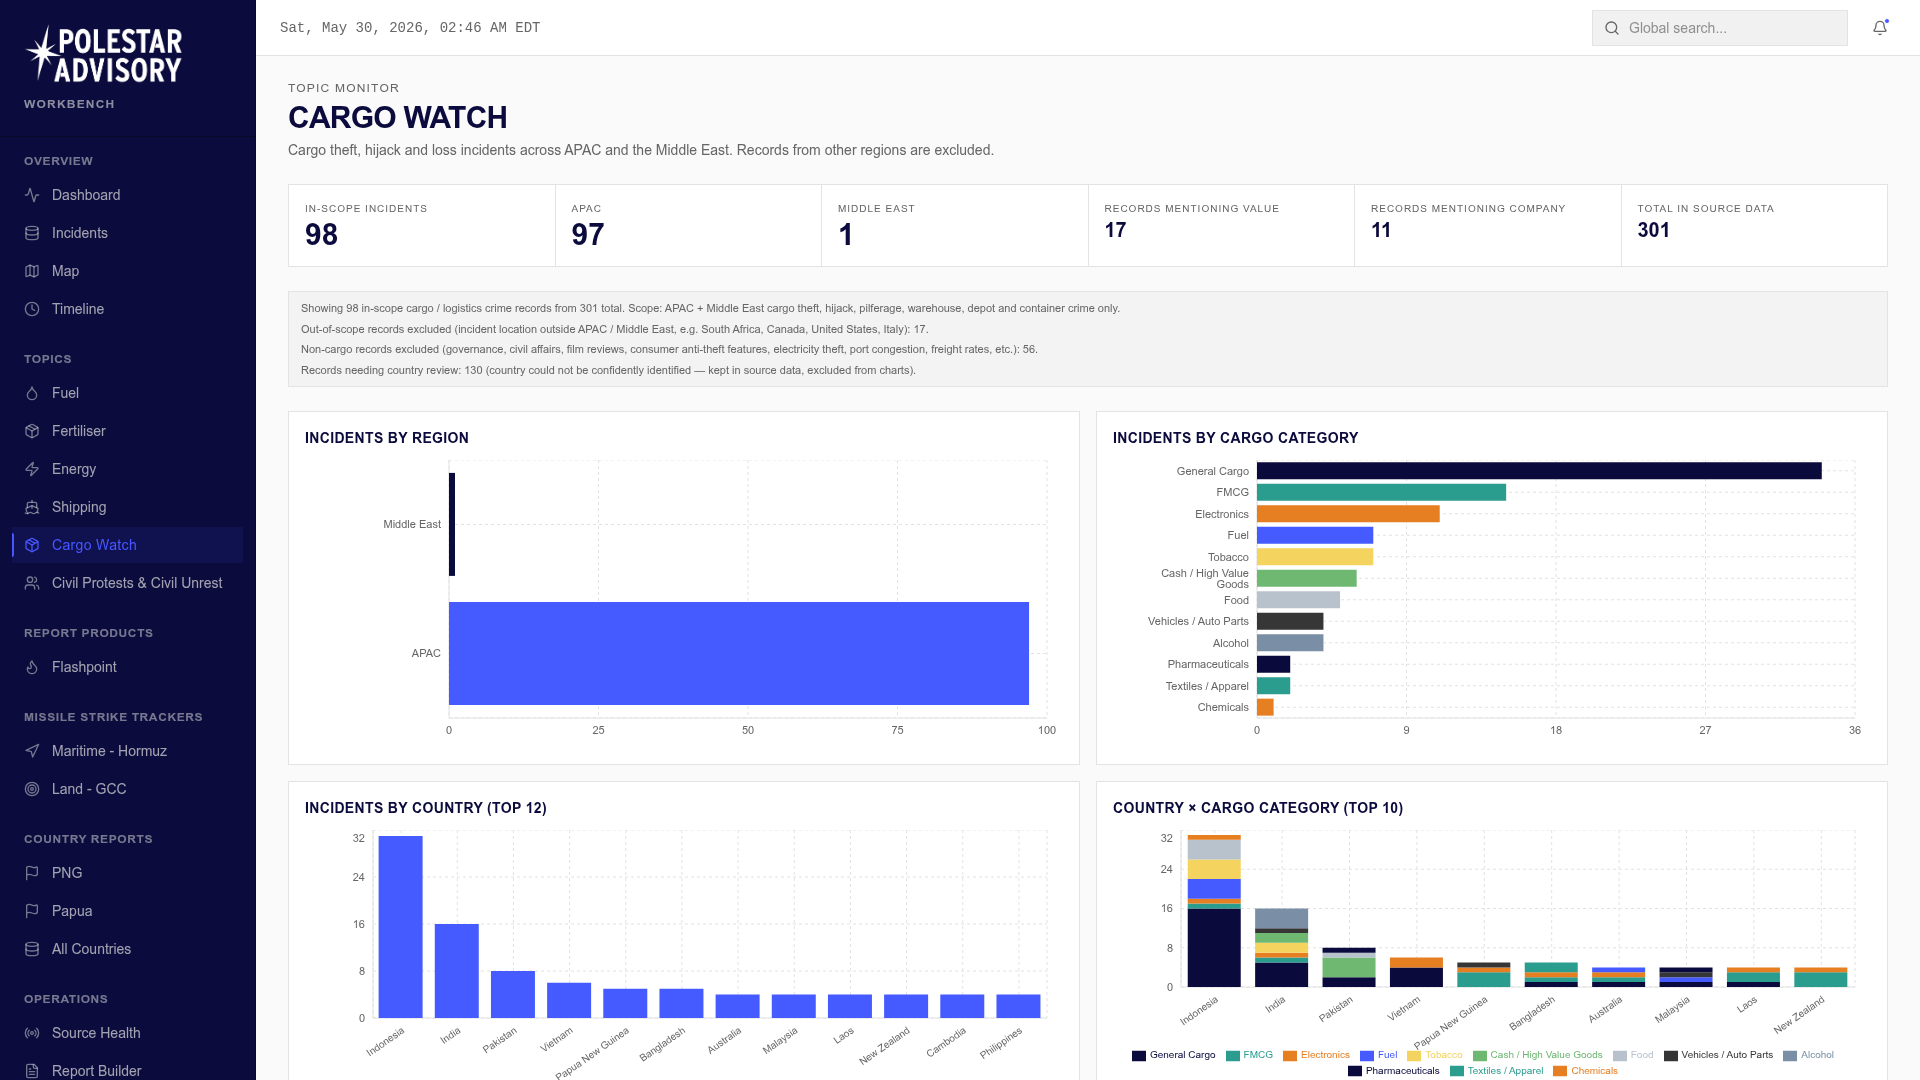
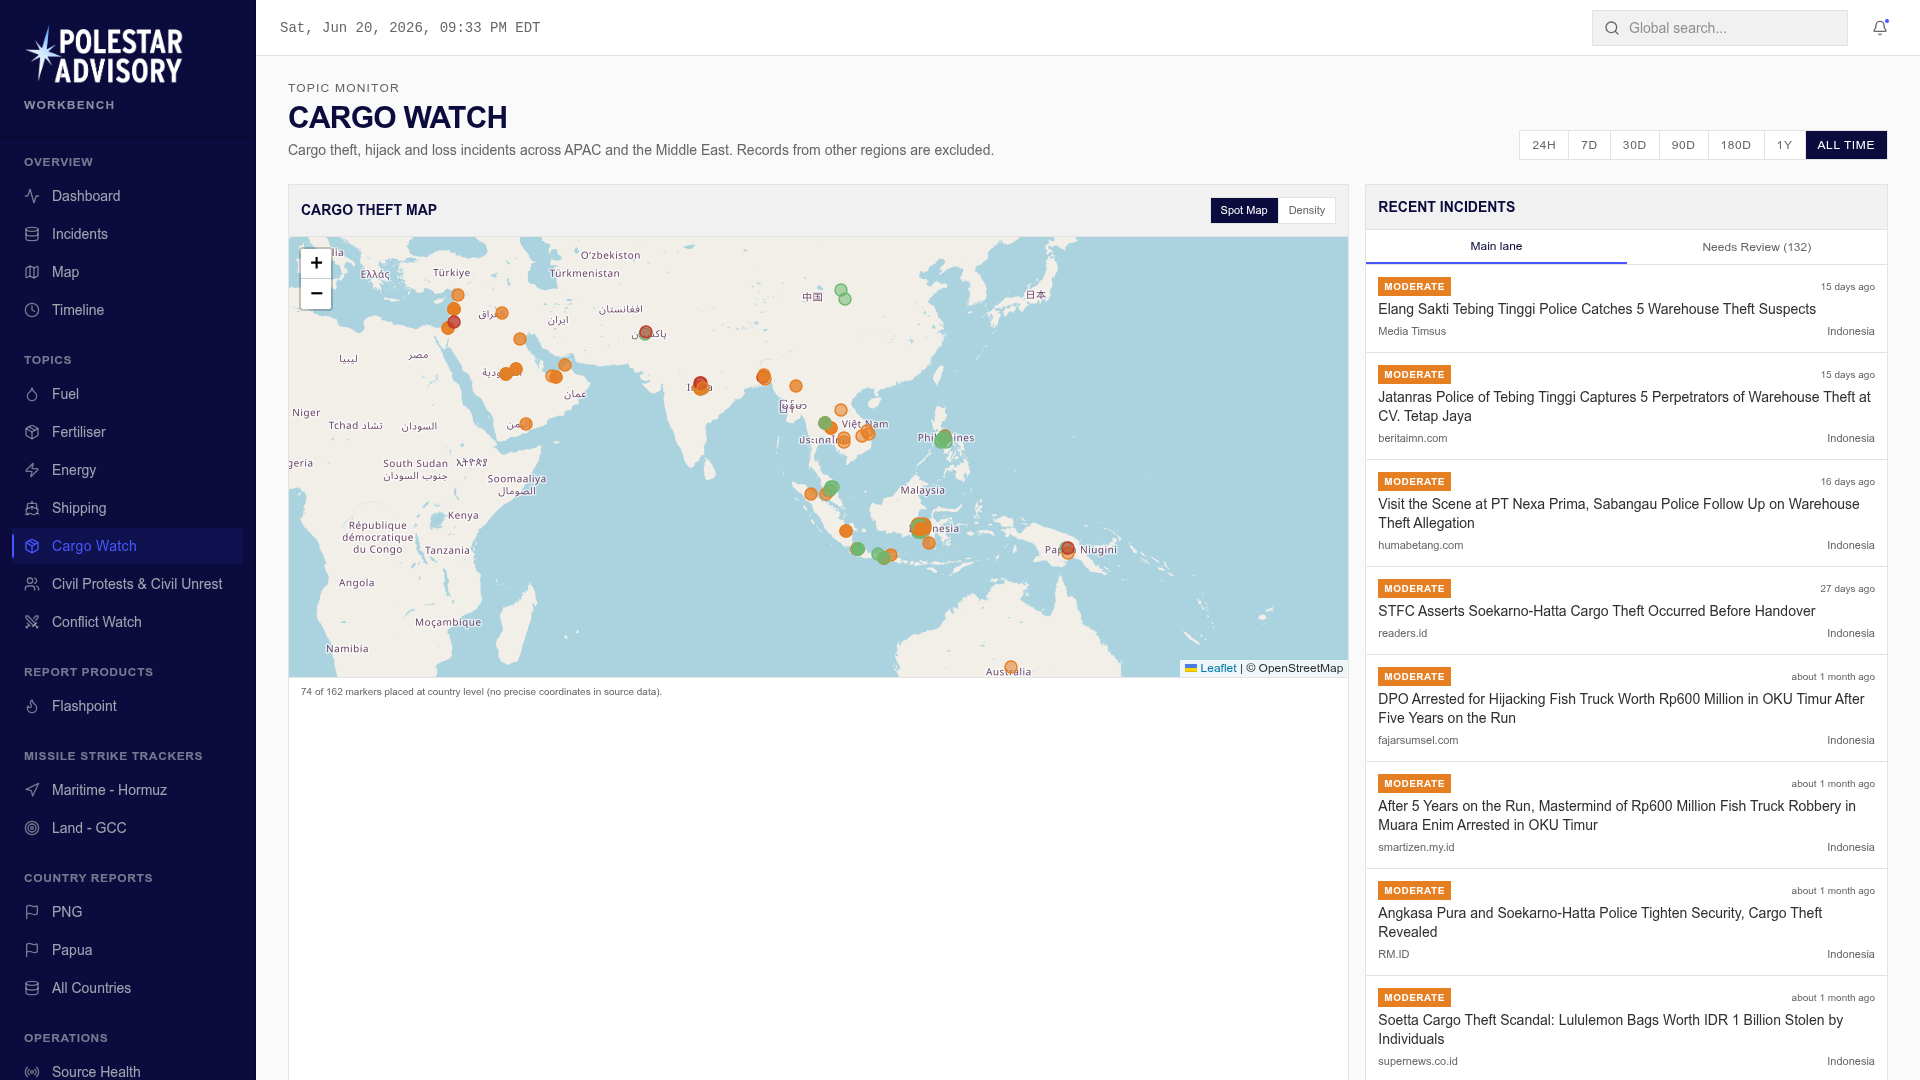
Clarify dashboard data display behavior and scope coverage
Update memory document to explain that the dashboard defaults to an "All Time" view showing comprehensive data, and that sparse results are due to the 30-day filter showing genuine monthly incident rates.

Replit-Commit-Author: Agent
Replit-Commit-Session-Id: 9d7bf10a-f0b8-4c02-9145-644c21eb1a2b
Replit-Commit-Checkpoint-Type: full_checkpoint
Replit-Commit-Event-Id: 1a22c678-0c74-4335-b33f-1a9254710093
Replit-Commit-Screenshot-Url: https://storage.googleapis.com/screenshot-production-us-central1/0dd4000f-972f-4f2c-8dc9-5edcdbcaee32/9d7bf10a-f0b8-4c02-9145-644c21eb1a2b/cTn6N4s
Replit-Helium-Checkpoint-Created: true

diff --git a/.agents/memory/cargo-ingest-scope-coverage.md b/.agents/memory/cargo-ingest-scope-coverage.md
@@ -75,3 +75,19 @@ fix is a DETERMINISTIC FRONTEND layer in `cargoAnalysis.ts` (NO DB writes):
 `relevance_status='relevant'` rows (the page set; raw DB count is larger) and
 confirm every newly-in-scope row is genuine + the strict gate demotes zero
 genuine recoveries.
+
+## "Cargo dashboard shows only 4 / hasn't changed" = the 30D filter, not a bug
+The recurring "cargo is light / nothing changed" report is usually the **30D
+range pill** being selected. The Cargo Watch page DEFAULTS to **All Time**
+(`useState<RangeKey>("all")`), which renders the full in-scope set (~160+
+incidents, map spanning APAC + Middle East + East Asia). Recent cargo-theft
+reporting in the covered region genuinely runs only ~6 incidents/month, so ANY
+short window (24h/7d/30d) looks tiny — that is real monthly sparseness, NOT
+staleness or a display bug. The depth lives in the wider windows (e.g. ~174
+records in 180d vs ~6 in 30d).
+**Don't reflexively blame prod-staleness:** verified dev and prod cargo data are
+identical and current (same total, same last-incident, prod self-refreshes), and
+the published app also defaults to All Time and shows the rich set. Before
+"fixing" anything, screenshot the All Time view (dev AND the live prod URL) and
+diff dev vs prod counts — the answer is almost always "working as intended, user
+was on the 30D filter."
